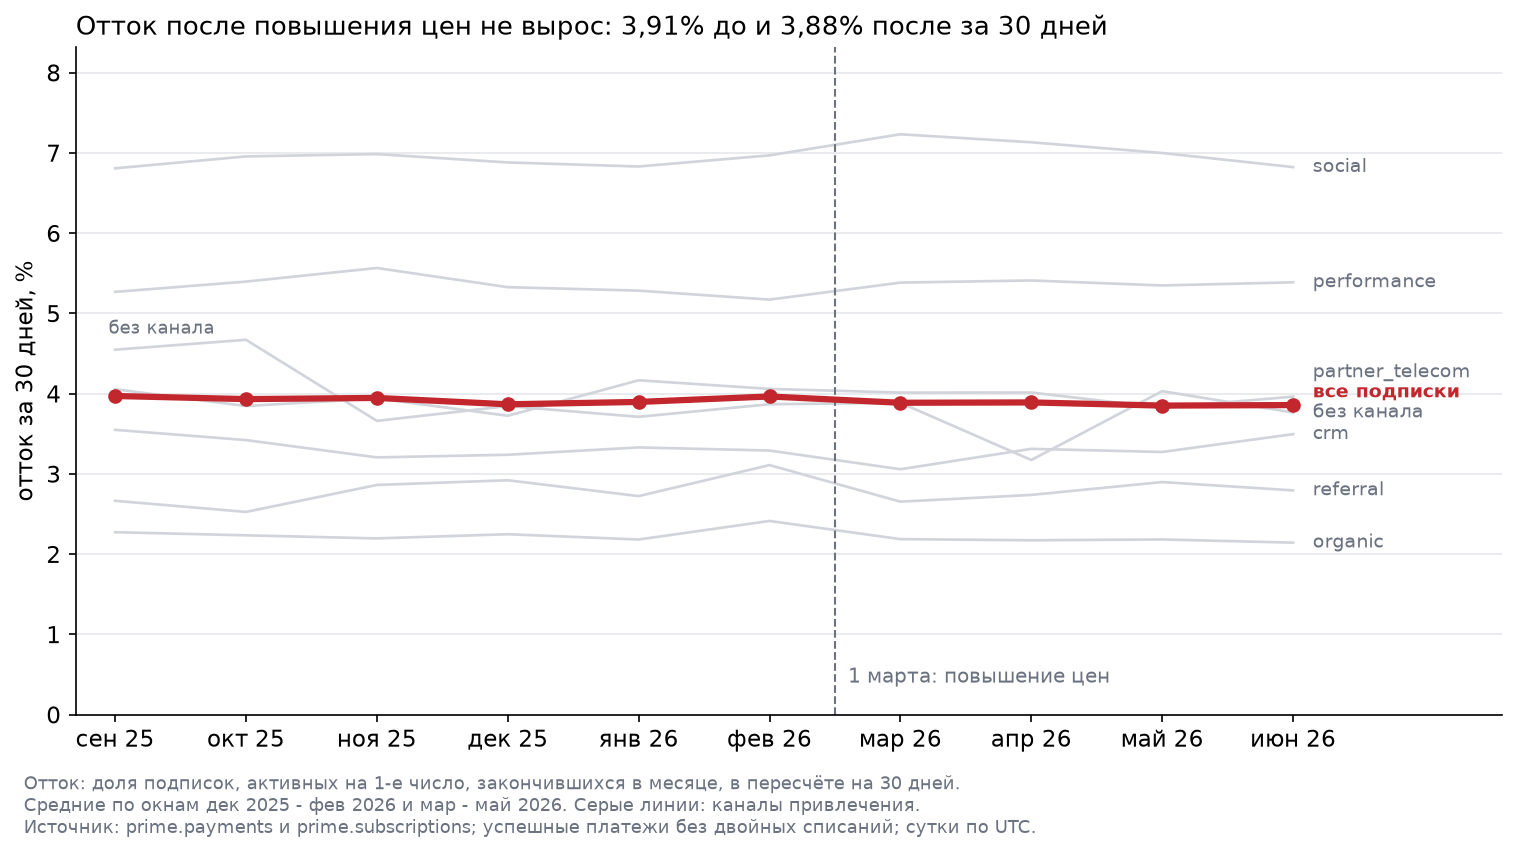
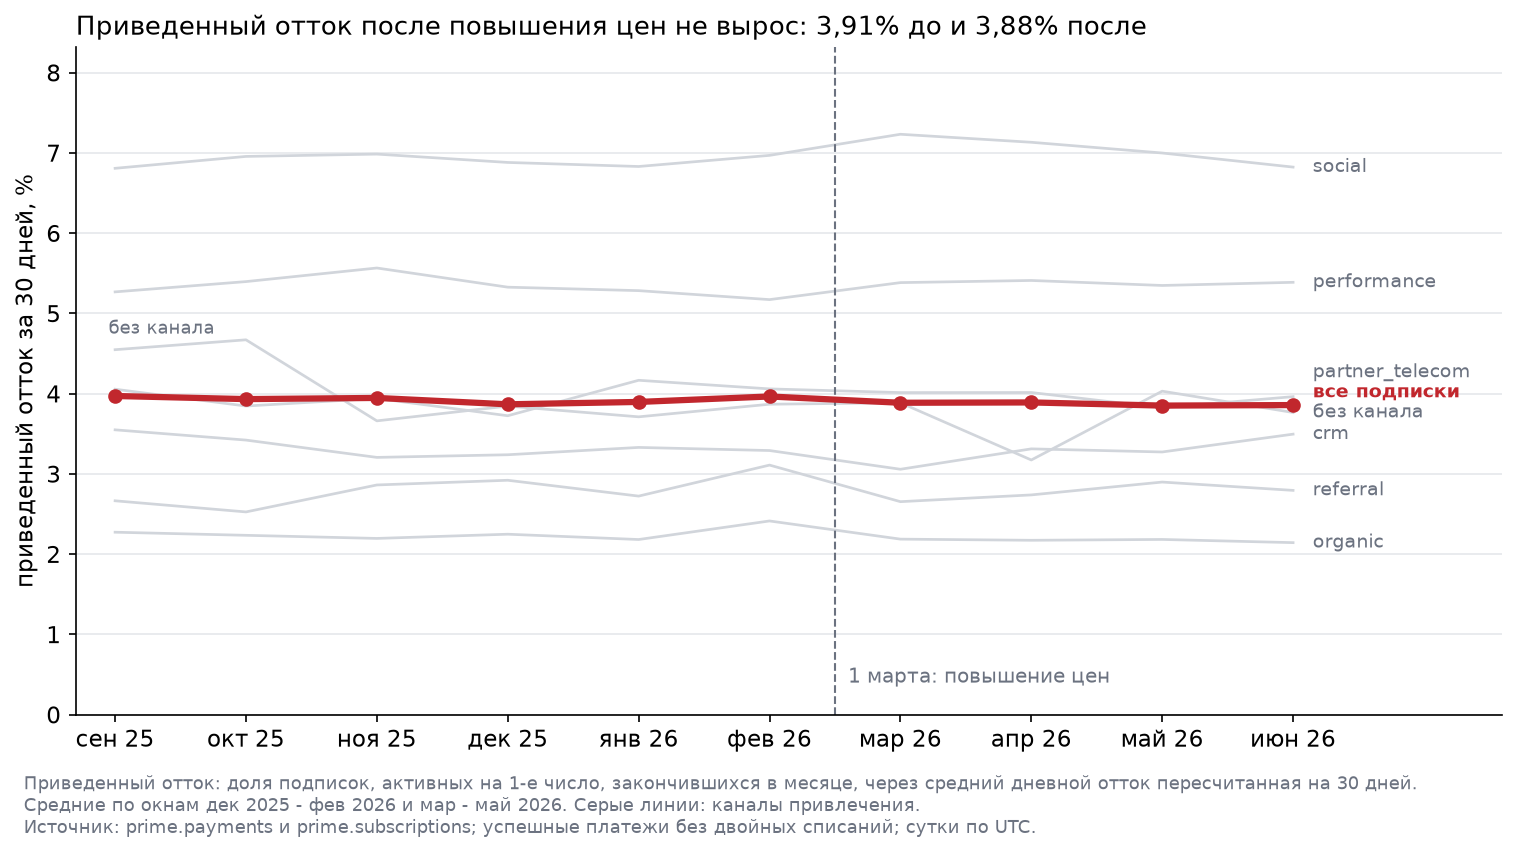
Вывод записка и декларация
Claude-Session: https://claude.ai/code/session_01NZDww82QBZdXUG9zY3NCuA

Changed region(s): [[0.062, 0.0, 0.7436, 0.0609], [0.0, 0.9133, 0.9295, 0.9438], [0.0, 0.2436, 0.031, 0.6698]]

diff --git a/ЗАПИСКА-ПРОЕКТ-1.md b/ЗАПИСКА-ПРОЕКТ-1.md
@@ -1,0 +1,85 @@
+# Окупилось ли повышение цен в марте 2026
+
+**Автор:** Седых Владислав · **Расчёт:** [`notebooks/project1.ipynb`](notebooks/project1.ipynb) · **Данные:** база ПРАЙМ, сутки по UTC
+
+**Вопрос.** 1 марта 2026 ПРАЙМ поднял цены подписки: "Базовый" с 199 до 249 руб. (+25,1%), "Расширенный" с 399 до 449 руб. (+12,5%).
+Принесло ли это больше денег, или выигрыш съел отток? Что делать с ценами дальше?
+
+**Коротко.** Повышение окупилось: средняя выручка в день выросла на 27%, из них почти три четверти дала цена.
+Клиенты из-за цены не ушли: приведенный отток не изменился. Цены стоит оставить и следить за двумя платными каналами.
+
+---
+
+## 1. Что случилось
+
+Сравнили по 3 месяца до и после повышения: декабрь 2025 - февраль 2026 против марта - мая 2026, по 90 дней с данными.
+Средняя выручка в день от подписок выросла с **1,51 до 1,92 млн руб.: +408 тыс. руб. в день, +27,1%**.
+Скачок произошёл ровно в марте, в июне уровень держится (2,00 млн руб. в день).
+
+## 2. За счёт чего
+
+![Каскад факторов](figures/2-kaskad-faktorov.png)
+
+Выручку в день разложили на три множителя: среднее число активных подписок × среднее число платежей на подписку в день × средняя цена платежа.
+
+| Фактор | Влияние, тыс. руб. в день | Доля роста |
+|---|---:|---:|
+| средняя цена платежа (274,82 -> 324,90 руб.) | **+296** | 72% |
+| среднее число активных подписок (+7,5%) | +114 | 28% |
+| среднее число платежей на подписку | -1 | 0% |
+| **итого** | **+408** | 100% |
+
+Порядок подстановок: сначала количество, потом цена. При любом из 6 порядков цена даёт больше чем вдвое против базы.
+Клиенты не перешли на дешёвый тариф: доля "Расширенного" 37,9% до и после, эффект структуры +0,5 тыс. руб. в день.
+Рост базы тот же, что до повышения: каждый месяц +31-44 тыс. руб. в день. Цена дала разовый скачок +289 тыс. руб. в день в марте.
+**При нынешней базе повышение приносит около 8,9 млн руб. за 30 дней.**
+
+## 3. Какие гипотезы проверяли
+
+| Гипотеза | Результат |
+|---|---|
+| 1. Рост выручки дала цена, а не база | **подтвердилась**: 72% роста |
+| 2. После повышения вырос отток | **не подтвердилась**: семь проверок, ни одна не показала роста |
+| 3. Сильнее ушли клиенты дешёвого тарифа или отдельных каналов | тариф: **нет**; каналы: **слабый сигнал** у `social` и `performance` |
+
+![Приведенный отток](figures/4-ottok.png)
+
+Что именно проверили по оттоку (до -> после):
+
+- приведенный отток за 30 дней: 3,91% -> 3,88%; у "Базового", где цена выросла сильнее, 3,95% -> 3,86%;
+- новых подписок в день: 366 -> 360, в пределах обычных колебаний (354-369);
+- отмены по дням вокруг 1 марта: 223 в день в феврале, 222 в первые две недели марта, всплеска нет;
+- доля отмен с причиной "слишком дорого": 24,3% в феврале, 24,1% в марте;
+- доля неудачных платежей: 3,29% -> 3,32%;
+- ранний отток (ушли на первом продлении) у новых подписок: 4,12% -> 4,15%;
+- единственный сигнал: у `social` приведенный отток 6,89% -> 7,12% (+0,23 п.п.), у `performance` 5,26% -> 5,38% (+0,12 п.п.).
+  Все три месяца после повышения выше всех трёх до, но разница на грани шума.
+
+**Приведенный отток** это доля подписок, активных на 1-е число, ушедшая за месяц, через средний дневной отток пересчитанная на 30 дней:
+так февраль (28 дней) и март (31 день) сравниваются честно.
+
+## 4. Что ещё нашли по дороге
+
+- **1 189 двойных списаний на 363 тыс. руб.** у 1 185 подписок: повтор через 0-15 минут, возвратов нет. Из выручки исключены.
+- **Строка 429 руб. в справочнике тарифов** пересекается с соседними, платежей по ней нет: ошибка ввода, исключена.
+- **Дыра в выгрузке платежей 14-15 апреля 2026.** Подписки за эти дни на месте, поэтому отток не задет; выручку апреля считали по 28 дням.
+
+## 5. Чего мы не знаем
+
+- **Долгий эффект.** Прошло 4 месяца. Клиенты могут уходить позже, например не продлевать подписку через полгода.
+- **Что было бы без повышения.** Контрольной группы нет: сравниваем с трендом до марта, а не с экспериментом.
+- **Почему клиенты не отреагировали.** Разложение отвечает "за счёт чего", а не "почему": ценность подписки, отсутствие альтернатив или привычка.
+- **Маржу.** Считали выручку; кэшбэк и выплаты партнёрам не вычитали.
+- **Кто не подписался из-за цены.** Новых подписок столько же, но конверсию регистраций в подписку по новой цене мы не проверяли.
+
+## 6. Что делать
+
+| Действие | Кто | Когда |
+|---|---|---|
+| Оставить новые цены: они дают около 296 тыс. руб. в день и не вызвали оттока | продукт, финансы | решение сейчас |
+| Ежемесячно смотреть приведенный отток `social` и `performance`; если рост сохранится, проверить для них отдельное предложение (например, скидку на первый период) | маркетинг, аналитика | каждый месяц, начиная с данных за июль 2026 |
+| Вернуть 363 тыс. руб. по 1 185 подпискам с двойным списанием и найти, почему платёжный шлюз повторяет запрос | платежи, поддержка | в течение недели |
+| Запросить у владельца выгрузки платежи за 14-15.04.2026 и исправить строку 429 руб. в справочнике | данные | в течение недели |
+| Следующее изменение цены сначала проверить экспериментом на части клиентов | продукт, аналитика | перед следующим изменением |
+
+<sub>Выручка: успешные платежи без двойных списаний, без соединения с участниками подписок (нет двойного счёта из-за шеринга). Клиенты без канала привлечения показаны отдельно. Все расчёты и проверки: `notebooks/project1.ipynb`.</sub>

diff --git a/ДЕКЛАРАЦИЯ-ИИ-ПРОЕКТ-1.md b/ДЕКЛАРАЦИЯ-ИИ-ПРОЕКТ-1.md
@@ -1,0 +1,45 @@
+# Декларация использования ИИ
+
+**Работа:** Проект 1
+**Автор:** Седых Владислав, группа ЗАПОЛНИТЬ
+**Дата:** 25.10.2026
+
+---
+
+## Чем пользовался
+
+| Инструмент | Для чего |
+|---|---|
+| Claude (Anthropic), приложение Claude, режим Cowork | изучил лекции Л3-Л6 и семинары С3-С6, предложил варианты бизнес-вопроса и план работы, писал код ноутбука и функций в `src/prime/`, запускал ноутбук в моём JupyterLab, писал черновики выводов, записки и этой декларации |
+
+---
+
+## Существенные подсказки
+
+| Что спрашивал | Что получил | Что сделал дальше |
+|---|---|---|
+| Какую тему взять для проекта | три варианта: повышение цен в марте 2026, обвал конца августа 2026 (разобран на Л6), свой сегмент из ДЗ-2 | выбрал повышение цен: своя тема, а методы все из курса |
+| Почему повторные платежи считаем двойными списаниями | проверку промежутков между платежами одной подписки: повторы через 0-15 минут, продления через 25-35 дней, середины нет; порог от 15 минут до недели даёт одно число; возвратов по повторам нет | согласился исключить 1 189 платежей и сформулировал комментарий к коду |
+| Можно ли мерить эффект цены только по марту | я сам указал, что одного месяца мало | попросил сравнивать окна по 3 месяца: декабрь-февраль против марта-мая; разложение пересчитано |
+| Можно ли привести отток к среднедневному и честно ли считать от базы на 1-е число | объяснение: доли перемножаются, поэтому d = 1 - (1 - c) ^ (1 / D); знаменатель на начало месяца не зависит от продаж месяца; у определения есть слепое пятно для новых подписок | выбрал формулу с перемножением, попросил расписать её в ноутбуке и называть результат "приведенный отток"; добавили проверку раннего оттока новых подписок |
+| Что значит ось Y на графике оттока и влияет ли на отток дыра 14-15 апреля | ось Y это уровень приведенного оттока, а не изменение к прошлому месяцу; проверку подписок по дням вокруг дыры: подписки на месте, пропали только платежи | проверка добавлена в ноутбук |
+| Какой канал на графике оттока начинается около 4,5% | это "без канала", самая маленькая группа: около 3-4 тыс. активных подписок, 1 п.п. это около 33 подписок | попросил подписать линию и объяснить шум в выводе |
+| Оформление | по моей просьбе: таблицы с датами в столбцах слева направо, названия колонок по-русски с оригиналом в скобках, средние называются средними, вывод после каждой ячейки кода | проверил, что так во всём ноутбуке |
+
+---
+
+## Что я проверил сам
+
+- Перезапуск ноутбука с нуля (Restart Kernel and Run All Cells): все ячейки выполняются по порядку без ошибок.
+- Контрольные числа в ноутбуке: число строк платежей и подписок совпало с базой, выручка в витрине совпала с суммой платежей до копейки, сумма влияний факторов равна изменению выручки (`assert` в каждом разложении).
+- Логику исключения двойных списаний: попросил показать, почему это повторы, а не продления, и посмотрел пример подписки.
+- Определение и формулу оттока, смысл оси Y на графике оттока.
+- Что дыра в платежах 14-15 апреля не задевает отток.
+- Откуда берутся скачки линии "без канала" на графике оттока.
+- Тексты выводов: что они не противоречат друг другу после смены окон сравнения.
+
+---
+
+## Что я не могу объяснить
+
+ЗАПОЛНИТЬ САМОМУ: перечислить места, которые нужно перечитать до защиты, или написать "нет".
